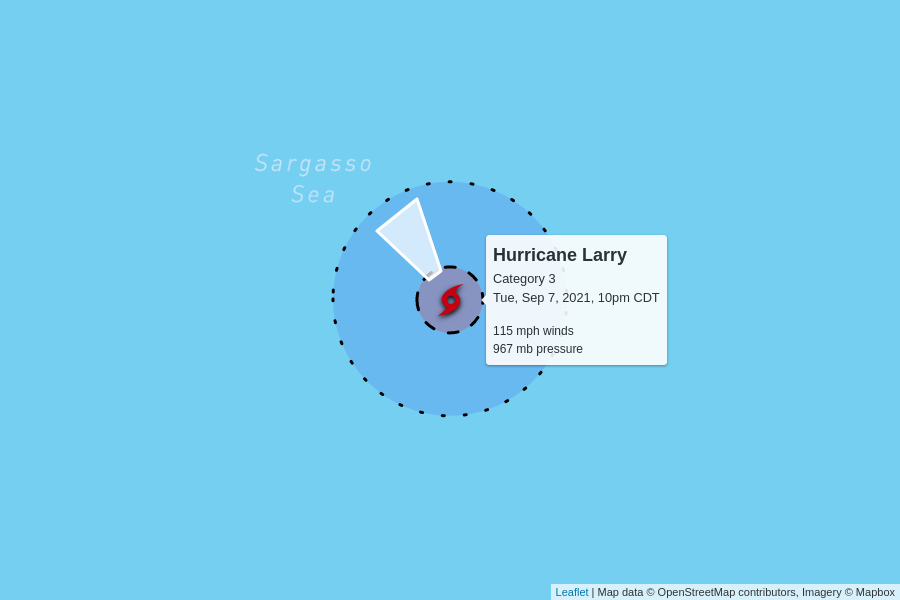
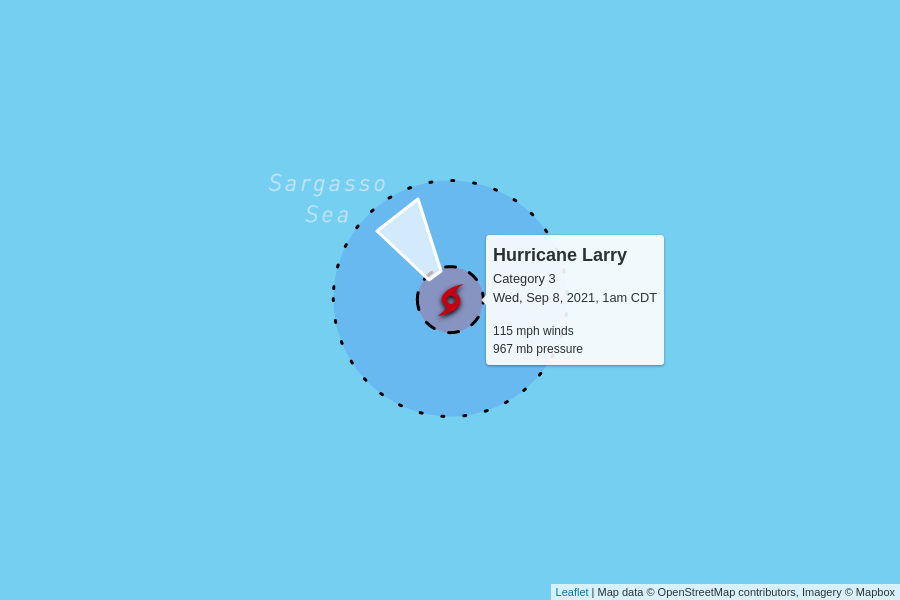
automatic update

Changed region(s): [[0.5289, 0.39, 0.7467, 0.6], [0.28, 0.27, 0.4356, 0.39]]

diff --git a/docs/index.html b/docs/index.html
@@ -100,7 +100,7 @@
         <td colspan="6" class="storm category-3">
           <h2>
             Hurricane Larry - Category 3
-            <p class="updated">last updated <span data-time>2021-09-08T03:00:00.000Z</span></p>
+            <p class="updated">last updated <span data-time>2021-09-08T06:00:00.000Z</span></p>
           </h2>
         </td>
       </tr>
